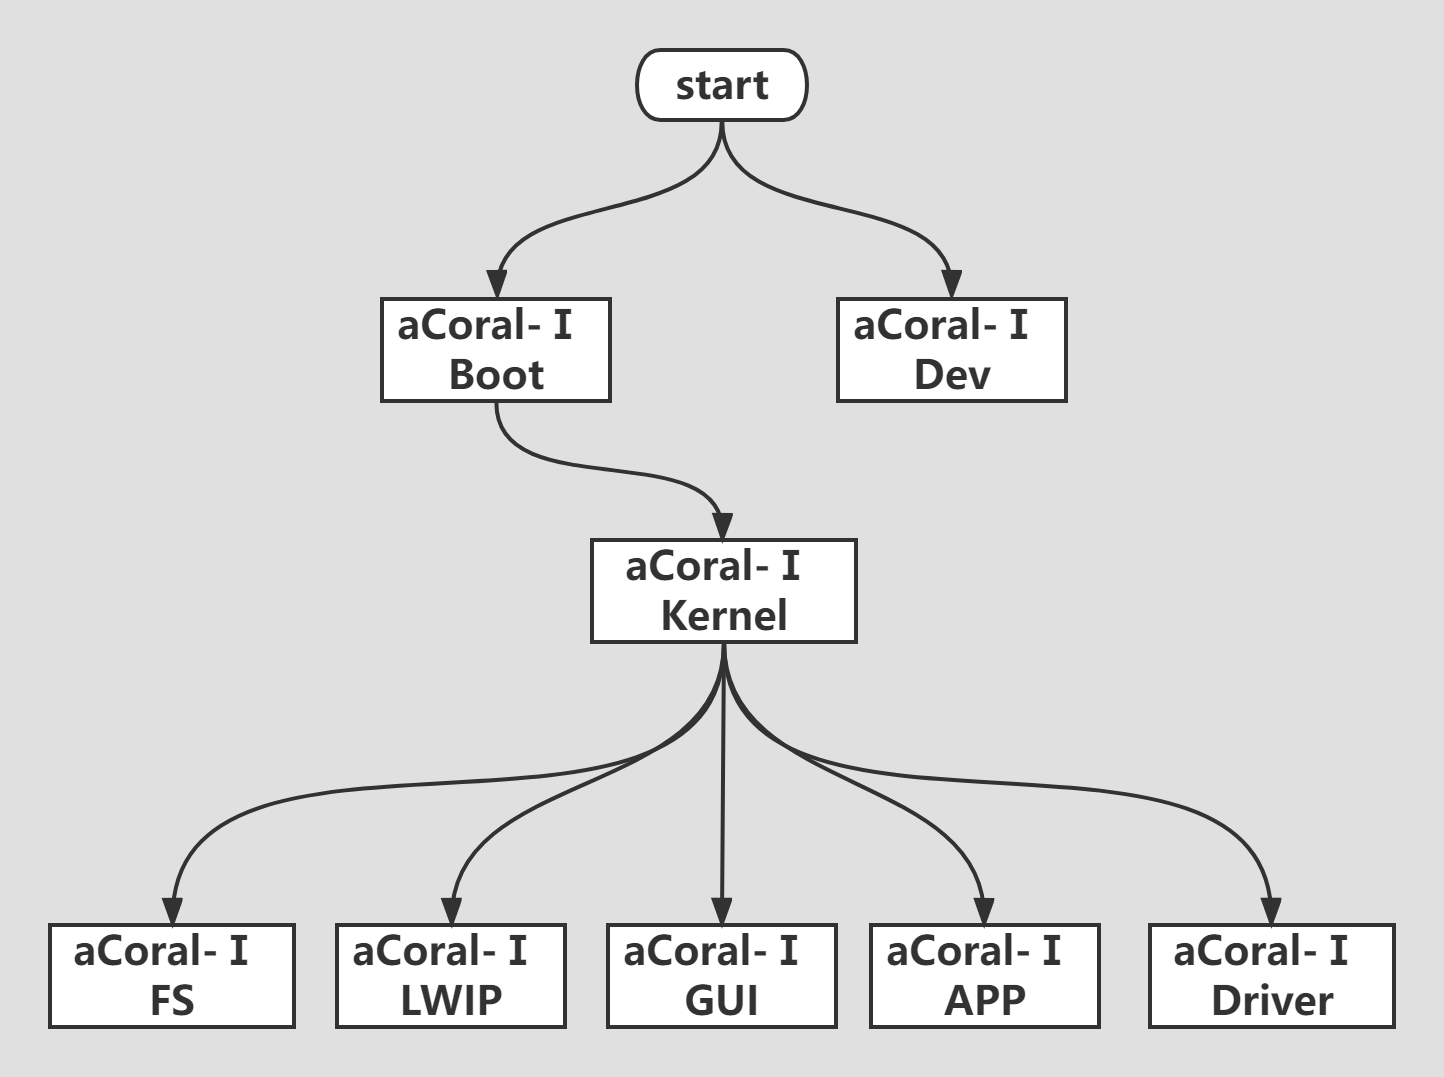
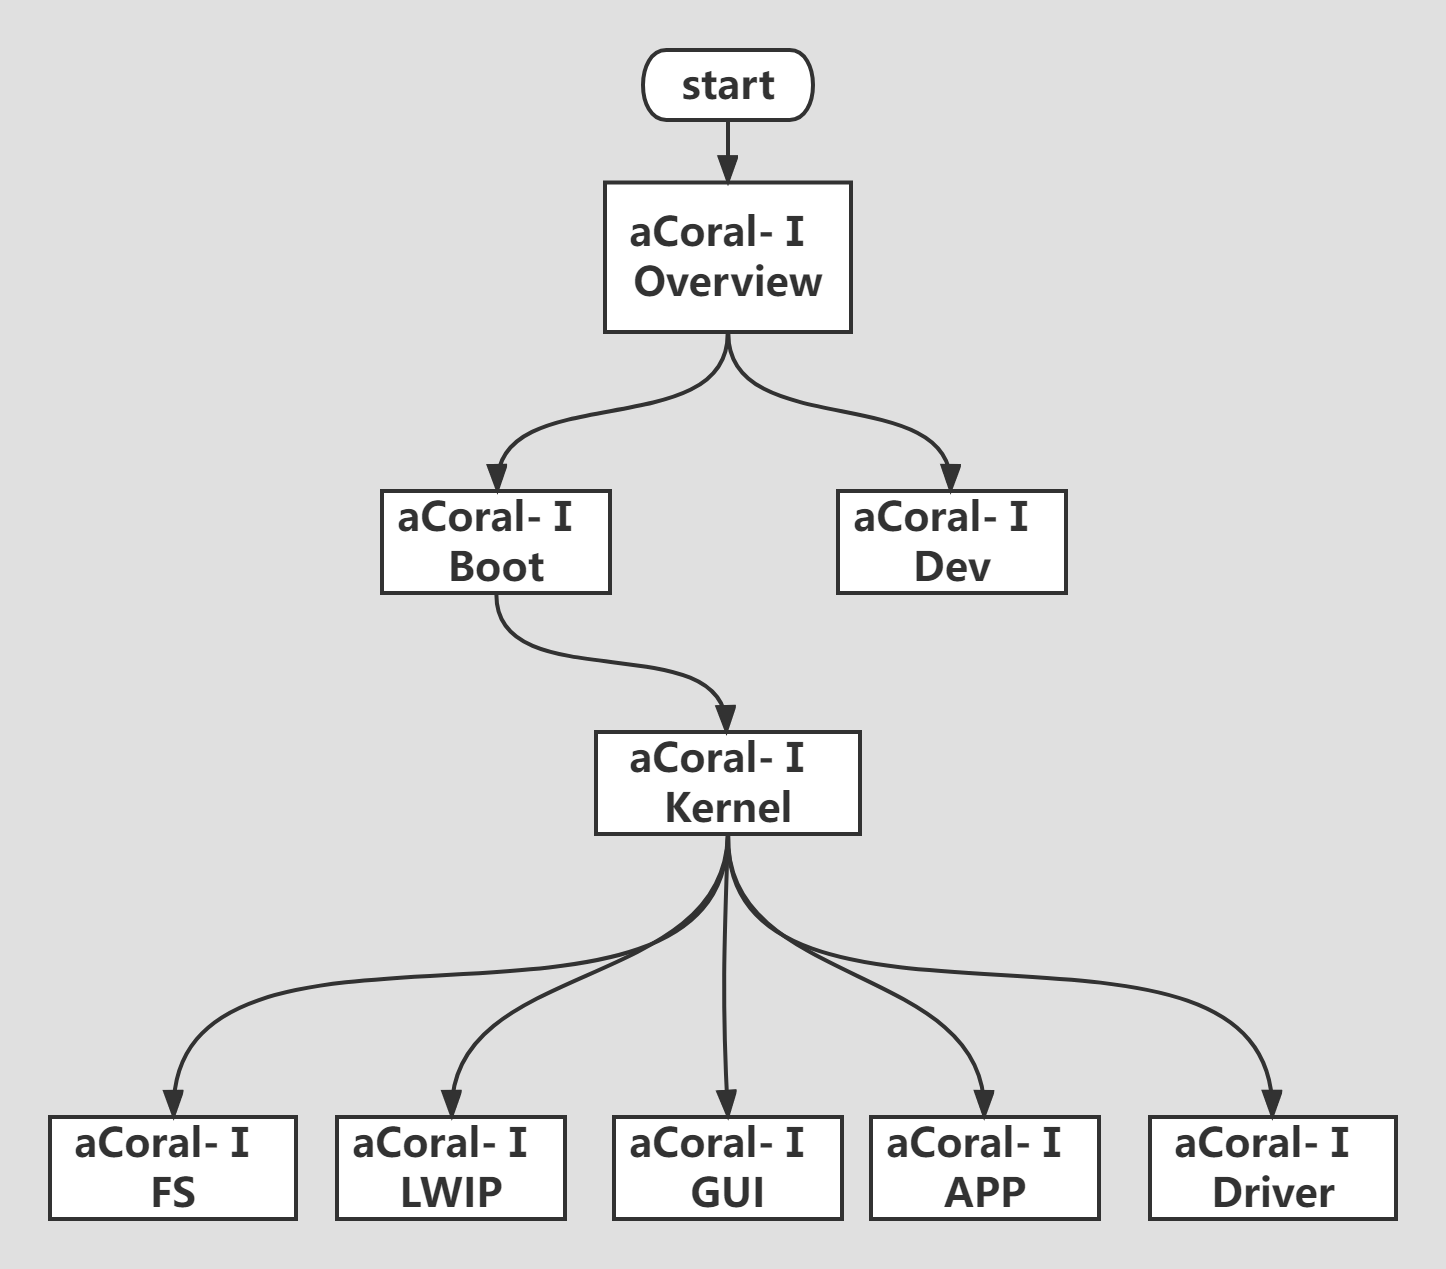
edit readme

Changed region(s): [[0.2493, 0.0306, 0.7479, 0.7354], [0.0312, 0.7047, 0.9661, 0.9805], [0.6233, 0.2145, 0.6544, 0.2451]]

diff --git a/README.md b/README.md
@@ -8,4 +8,14 @@
 # 2. Learning Route
 ![](pic/Learning%20Route.png)
 
-学习aCoral的单核版本（aCoral-Ⅰ），可以先从aCoral在mini2440开发板的上电启动过程（[aCoral-Ⅰ Boot](http://www.google.com/)）开始学习
+学习aCoral的单核版本（aCoral-Ⅰ），可以通过阅读[aCoral-Ⅰ overview](https://github.com/spg-one/aCoral1-Document/tree/master/aCoral-%E2%85%A0%20Overview)，对aCoral单核版本有一个大致的了解。
+
+接下来，可以从aCoral在mini2440开发板的上电启动过程（[aCoral-Ⅰ Boot](https://github.com/spg-one/aCoral1-Document/tree/master/aCoral-%E2%85%A0%20Boot)）开始学习，搞明白在按下开发板的开关之后，aCoral是如何一步一步启动的。
+
+掌握了上电启动流程之后，就可以进行对aCoral最重要的部分——内核（[aCoral-Ⅰ Boot](https://github.com/spg-one/aCoral1-Document/tree/master/aCoral-%E2%85%A0%20Kernel)）的学习了。内核是整个操作系统的核心，包含线程管理、中断管理等基本模块。上电启动完毕之后，内核就移植运行在开发板之上，管理所有的硬件、软件资源。
+
+仅仅有内核的话，aCoral作为一个操作系统还是略显简陋，所以在内核之外，aCoral还包含了文件系统（[aCoral-Ⅰ FS](https://github.com/spg-one/aCoral1-Document/tree/master/aCoral-%E2%85%A0%20FS)）、网络通信功能（[aCoral-Ⅰ LWIP](https://github.com/spg-one/aCoral1-Document/tree/master/aCoral-%E2%85%A0%20LWIP)）、用户图形界面（[aCoral-Ⅰ GUI](https://github.com/spg-one/aCoral1-Document/tree/master/aCoral-%E2%85%A0%20GUI)）、驱动（[aCoral-Ⅰ Driver](https://github.com/spg-one/aCoral1-Document/tree/master/aCoral-%E2%85%A0%20Driver)）以及各类应用程序（[aCoral-Ⅰ APP](https://github.com/spg-one/aCoral1-Document/tree/master/aCoral-%E2%85%A0%20APP)）。
+
+最后，对于开发者，还需要学习如何来使用、开发aCoral操作系统，这部分内容可以在[aCoral-Ⅰ Dev](https://github.com/spg-one/aCoral1-Document/tree/master/aCoral-%E2%85%A0%20Dev)找到。
+
+以上所有内容，都可以在对应名字的目录下面找到学习文档。

diff --git a/aCoral-Ⅰ Overview/README.md b/aCoral-Ⅰ Overview/README.md
@@ -1,0 +1,1 @@
+# 1. 
